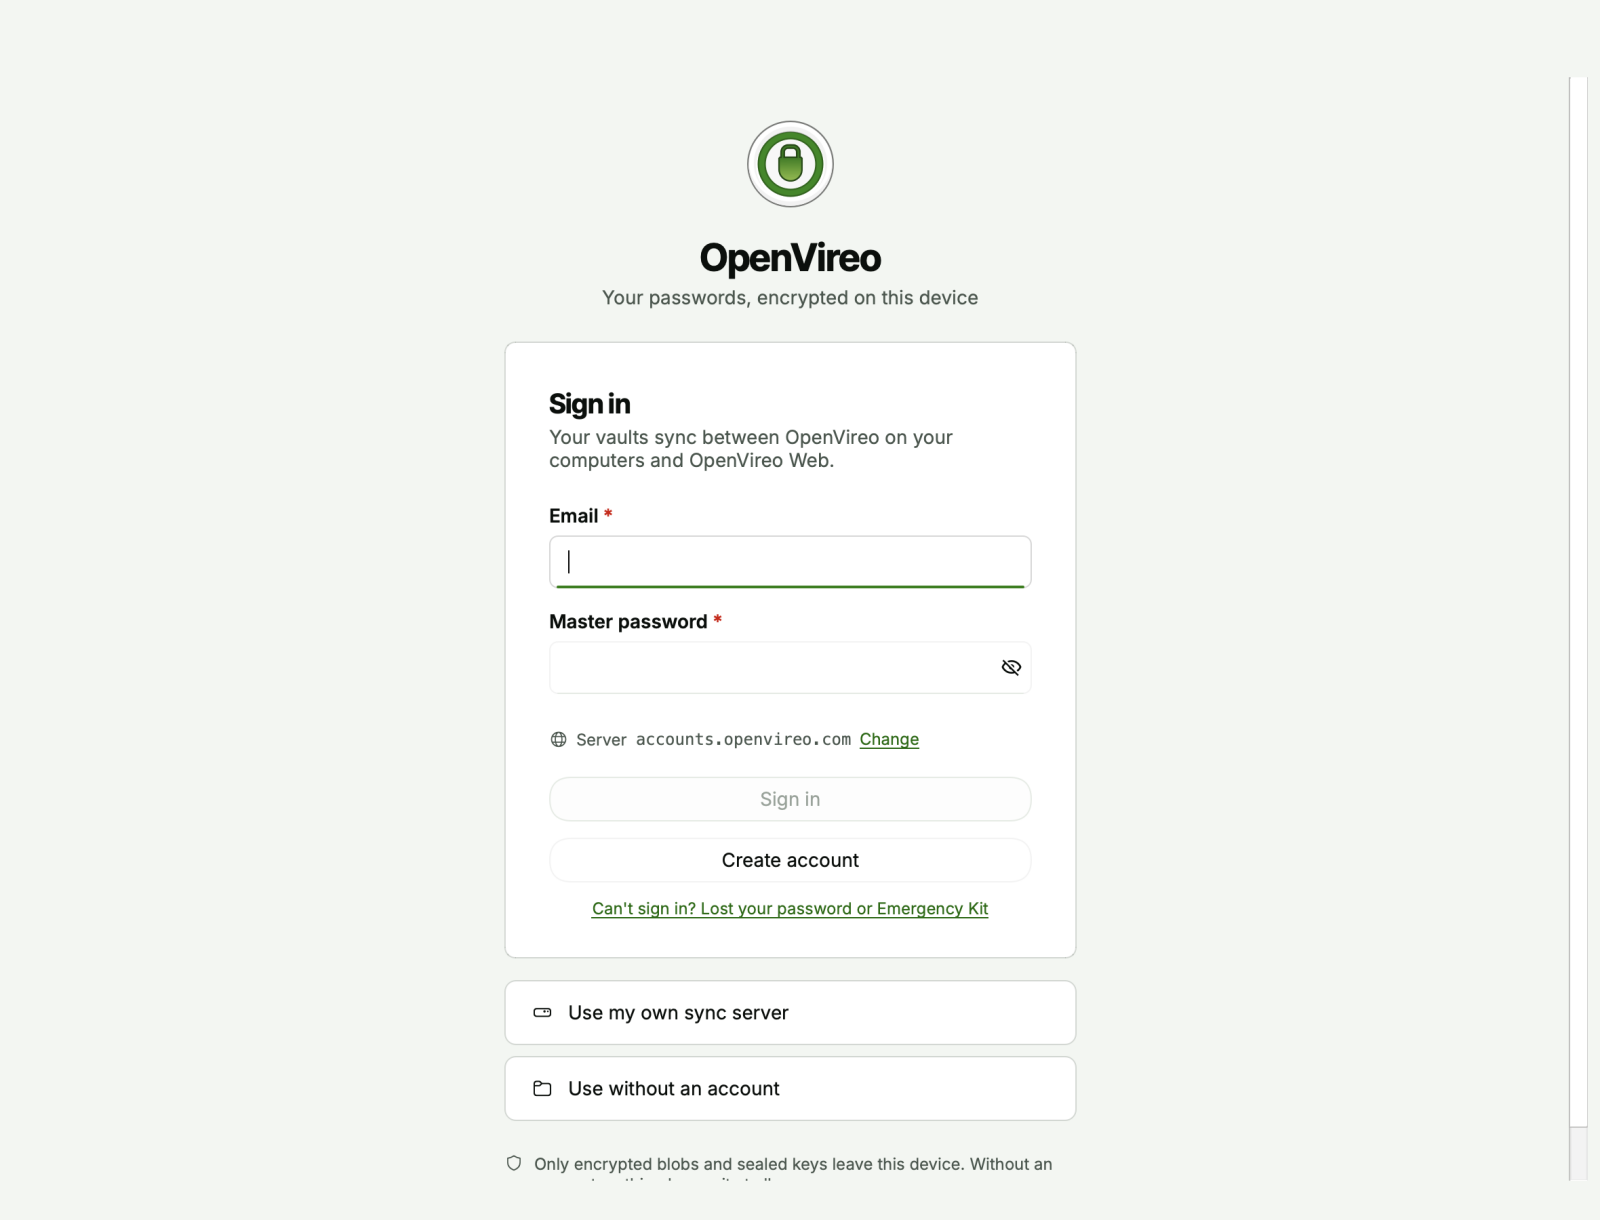
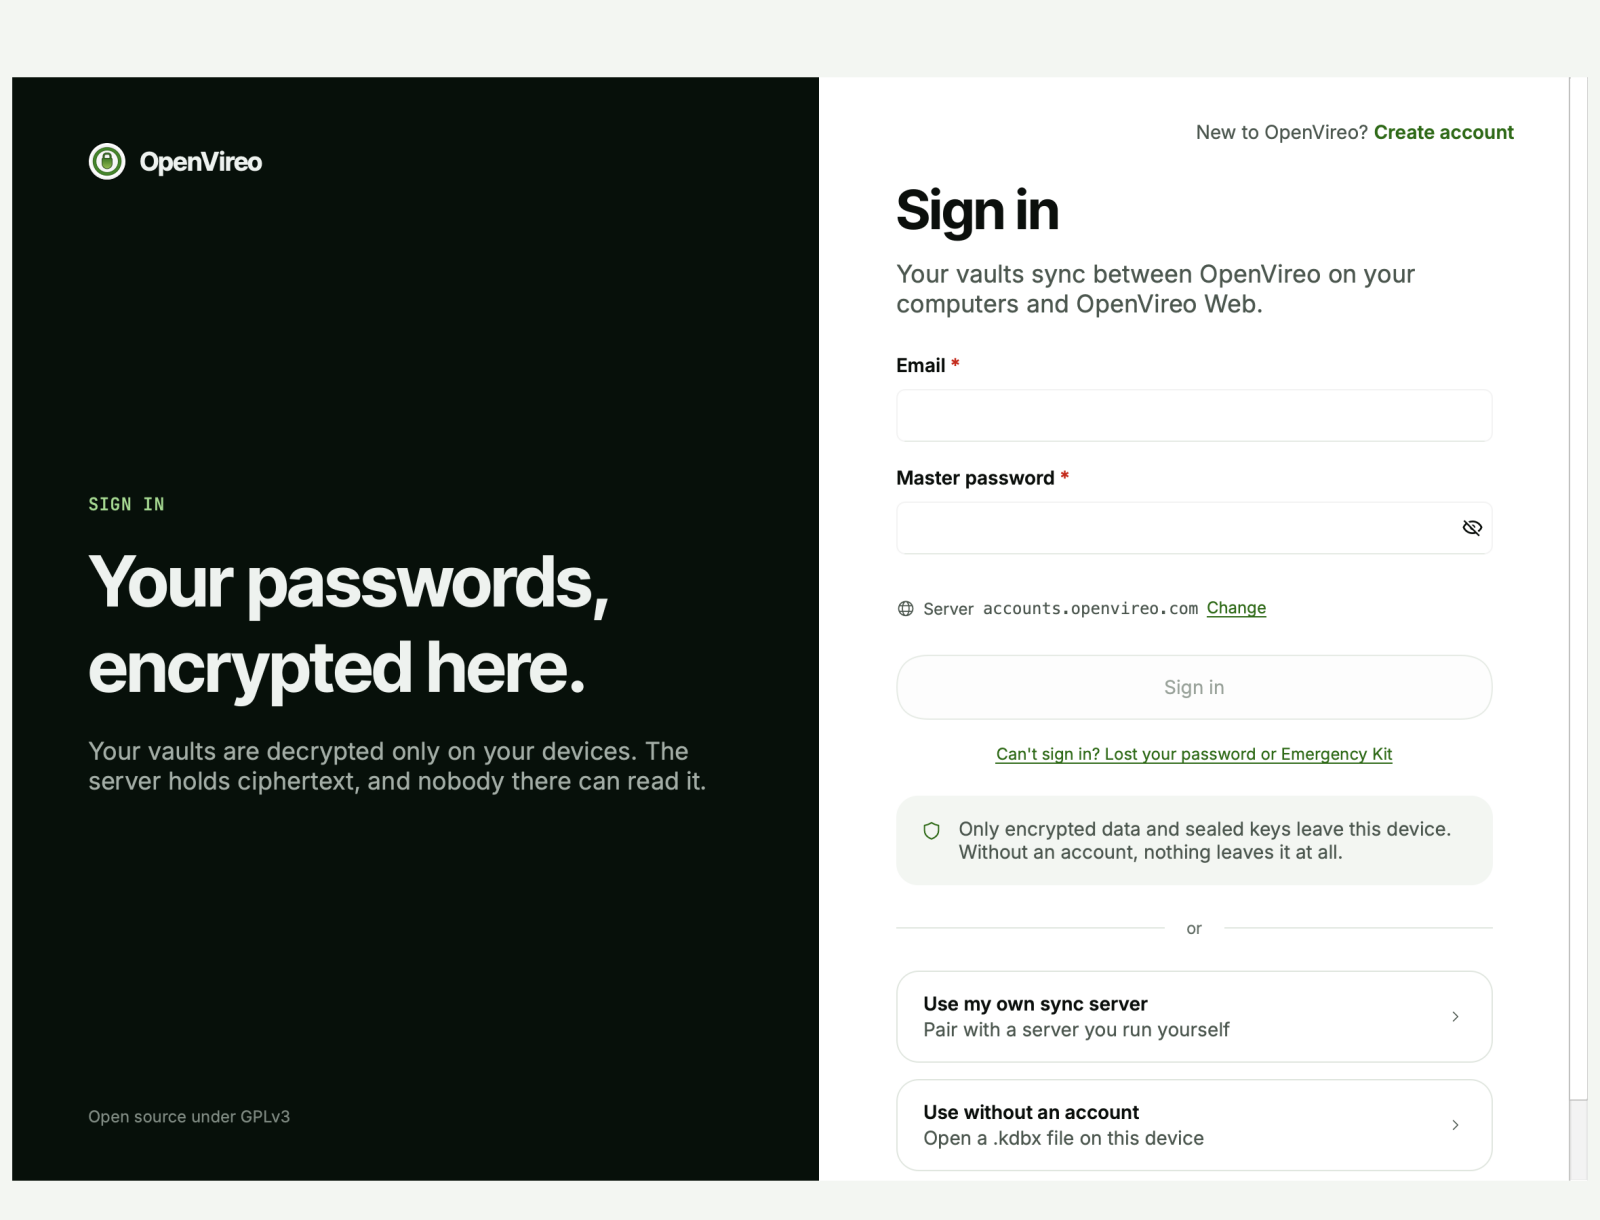
Refresh the screenshots for the desktop's split sign-in screen
Product screenshots and the guides' images from openvireo develop@138ca38a, where the start
screen uses the same split layout as the web app's sign-in page.

diff --git a/content/docs/getting-started/_index.html b/content/docs/getting-started/_index.html
@@ -3,7 +3,7 @@ title: "Getting Started"
 description: "Download OpenVireo, create your first database, and connect your browser in a few easy steps."
 version: "1.0.0"
 updated: "2026-11-23"
-origin: "develop@0bb35641"
+origin: "develop@138ca38a"
 related:
   title: "Read the full User Guide"
   url: "/docs/user-guide/"

diff --git a/content/docs/user-guide/_index.html b/content/docs/user-guide/_index.html
@@ -3,7 +3,7 @@ title: "User Guide"
 description: "Everything OpenVireo can do, explained chapter by chapter."
 version: "1.0.0"
 updated: "2026-11-23"
-origin: "develop@0bb35641"
+origin: "develop@138ca38a"
 related:
   title: "New here? Getting Started"
   url: "/docs/getting-started/"
